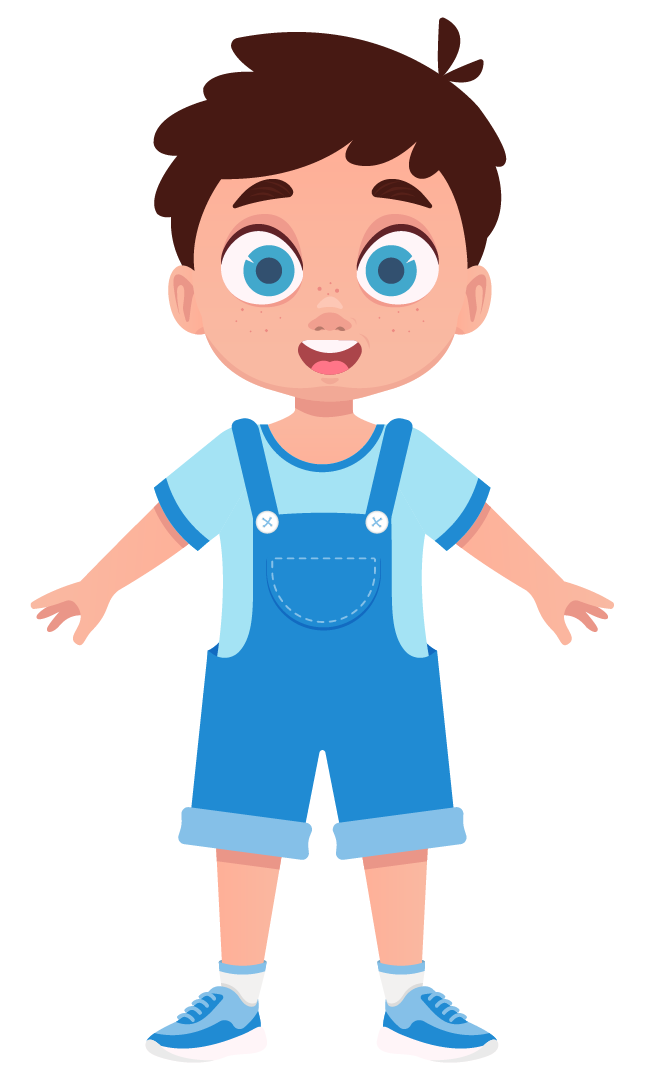
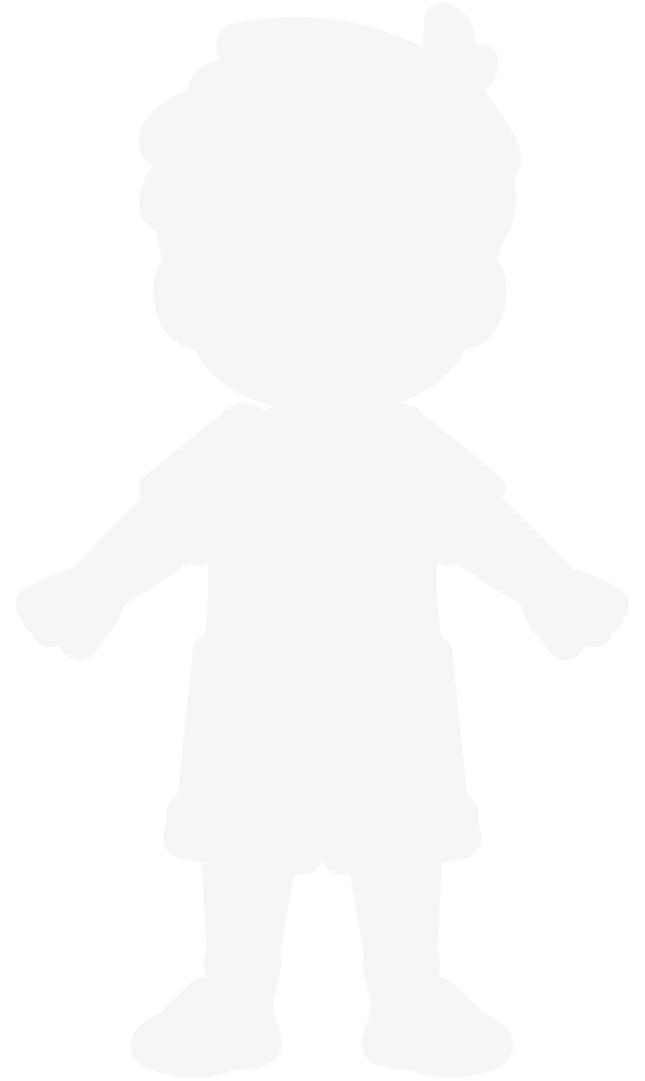
Remove unused 'resalte-capas' div from index.html, implement delayed function calls in script.js for smoother transitions, update styling for 'acierto' class in style.css, and replace binary image files for 'completo.png' and 'silueta.png'.

diff --git a/Polimotor/Reconocimiento/style.css b/Polimotor/Reconocimiento/style.css
@@ -208,9 +208,9 @@ body.mostrar-zonas .zona-toque {
 }
 
 .zona-toque.acierto {
-  border-color: #29b6f6;
-  background: rgba(41, 182, 246, 0.45);
-  box-shadow: 0 0 22px rgba(41, 182, 246, 0.9);
+  border: 3px solid #00e5ff;
+  background: rgba(0, 229, 255, 0.55);
+  box-shadow: 0 0 0 4px rgba(255, 235, 59, 0.85), 0 0 28px rgba(0, 229, 255, 1);
   animation: iluminar 0.7s ease;
   z-index: 6;
 }
@@ -412,8 +412,12 @@ body.mostrar-zonas .zona-toque {
   overflow: hidden;
 }
 
+.swal2-popup {
+  width: min(640px, 92vw) !important;
+}
+
 .swal2-modal {
-  width: 52% !important;
+  width: min(640px, 92vw) !important;
 }
 
 .swal2-popup.modal-feedback {

diff --git a/Polimotor/Reconocimiento/script.js b/Polimotor/Reconocimiento/script.js
@@ -507,7 +507,7 @@ function elegirCuerpo() {
 function confirmarCuerpo(tipo) {
     cuerpoElegido = tipo;
     Swal.close();
-    elegirNivel();
+    setTimeout(elegirNivel, 50);
 }
 window.confirmarCuerpo = confirmarCuerpo;
 
@@ -536,7 +536,7 @@ function elegirNivel() {
 function confirmarNivel(id) {
     nivelElegido = gameConfig.niveles.find(function (n) { return n.id === id; });
     Swal.close();
-    iniciarEscenario();
+    setTimeout(iniciarEscenario, 50);
 }
 window.confirmarNivel = confirmarNivel;
 

diff --git a/Polimotor/Reconocimiento/index.html b/Polimotor/Reconocimiento/index.html
@@ -63,7 +63,6 @@
 				<div id="lienzo">
 					<img id="img-completo" alt="Figura del cuerpo" draggable="false">
 					<div id="zonas"></div>
-					<div id="resalte-capas"></div>
 				</div>
 			</div>
 		</div>
